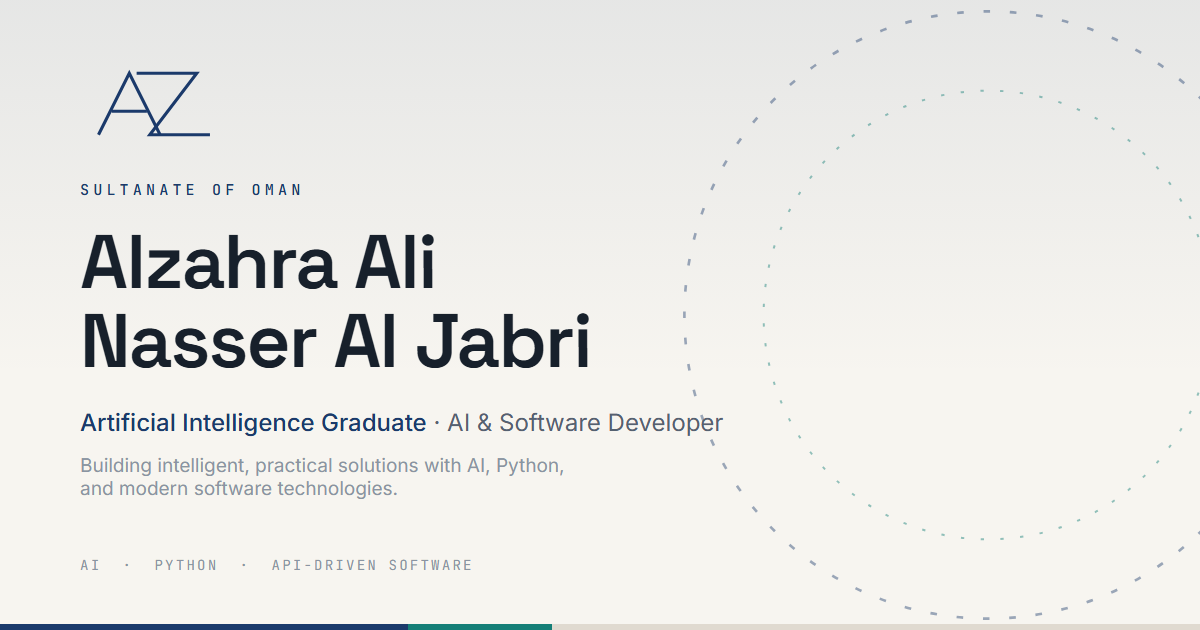
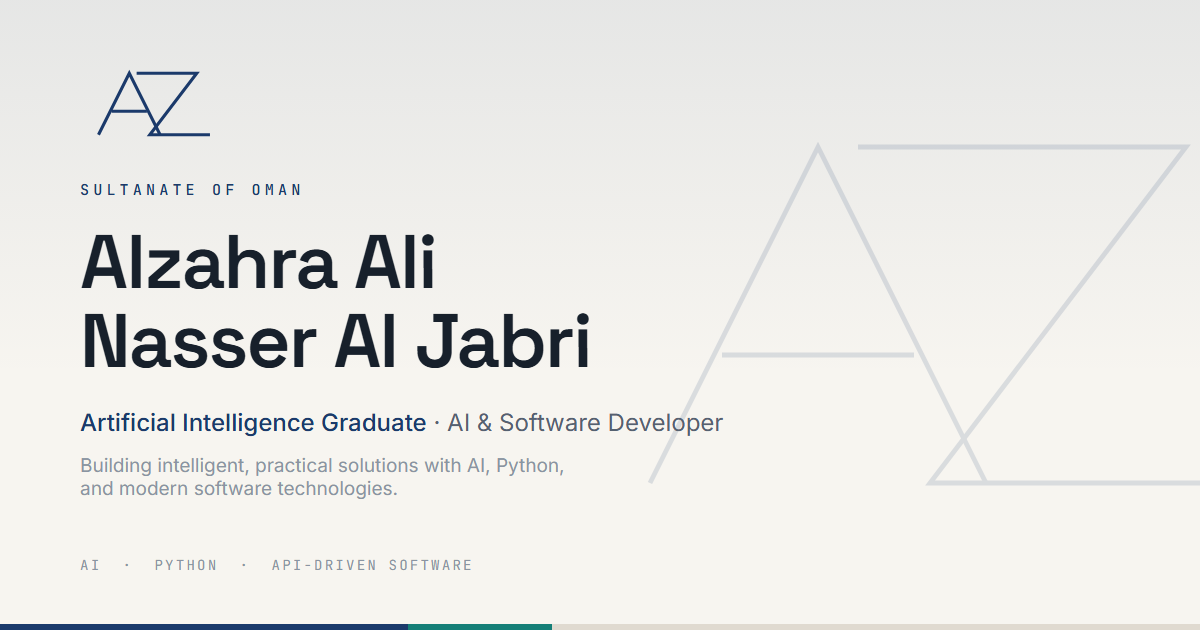
Swap the hero's dashed circles for an oversized ghost cipher
The two dotted rings are replaced by the AZ cipher blown up to ~980px at
11% opacity and cropped by the right edge, so the backdrop is the mark
itself rather than an unrelated shape. The OG card gets the same
treatment; og.png regenerated.

diff --git a/scripts/og-image.html b/scripts/og-image.html
@@ -7,9 +7,8 @@
   body{background:#F7F5F0;position:relative;font-family:Inter,system-ui}
   .fade{position:absolute;inset:0;background:linear-gradient(to bottom,rgba(27,58,107,.08),transparent 60%)}
   .lock{position:absolute;left:80px;top:60px;color:#1B3A6B}
-  .arcs{position:absolute;right:-118px;top:50%;transform:translateY(-50%);width:660px;height:660px}
-  .arcs svg{position:absolute;inset:0}
-  .mark{position:absolute;right:118px;top:50%;transform:translateY(-50%);color:#1B3A6B}
+  .ghost{position:absolute;right:-150px;top:50%;transform:translateY(-50%);width:800px}
+  .ghost svg{display:block;width:100%;height:auto}
   .copy{position:absolute;left:80px;top:54%;transform:translateY(-50%);max-width:706px}
   .eyebrow{font-family:'JetBrains Mono',monospace;font-size:15px;font-weight:500;
            letter-spacing:.28em;text-transform:uppercase;color:#1B3A6B;margin-bottom:22px}
@@ -32,12 +31,12 @@
   <path d="M77 18 H159 L95 102 H177"/>
 </svg>
 
-<div class="arcs">
-  <svg viewBox="0 0 100 100" style="opacity:.42">
-    <circle cx="50" cy="50" r="46" fill="none" stroke="#1B3A6B" stroke-width="0.4" stroke-dasharray="1 3"/>
-  </svg>
-  <svg viewBox="0 0 100 100" style="opacity:.45">
-    <circle cx="50" cy="50" r="34" fill="none" stroke="#157F77" stroke-width="0.3" stroke-dasharray="0.5 2.5"/>
+<div class="ghost">
+  <svg viewBox="0 0 200 120" fill="none" stroke="#1B3A6B" stroke-width="1.2"
+       stroke-linejoin="miter" stroke-miterlimit="8" style="opacity:.13">
+    <path d="M25 102 L67 18 L109 102"/>
+    <path d="M43 70 H91"/>
+    <path d="M77 18 H159 L95 102 H177"/>
   </svg>
 </div>
 

diff --git a/components/Hero.tsx b/components/Hero.tsx
@@ -4,23 +4,23 @@ export default function Hero() {
       id="top"
       className="relative flex min-h-screen items-center overflow-hidden pt-24"
     >
-      {/* ambient background: large slow-sweeping credibility arc */}
-      <div className="pointer-events-none absolute right-[-10%] top-1/2 hidden -translate-y-1/2 md:block lg:right-[2%]">
+      {/* ambient background: the AZ cipher blown up and cropped by the right edge */}
+      <div
+        aria-hidden="true"
+        className="pointer-events-none absolute right-[-22%] top-1/2 hidden -translate-y-1/2 md:block lg:right-[-16%]"
+      >
         <svg
-          width="620"
-          height="620"
-          viewBox="0 0 100 100"
-          className="animate-sweep opacity-[0.55]"
+          viewBox="0 0 200 120"
+          className="w-[760px] opacity-[0.11] lg:w-[980px]"
+          fill="none"
+          stroke="#1B3A6B"
+          strokeWidth="1.2"
+          strokeLinejoin="miter"
+          strokeMiterlimit={8}
         >
-          <circle cx="50" cy="50" r="46" fill="none" stroke="#1B3A6B" strokeWidth="0.4" strokeDasharray="1 3" />
-        </svg>
-        <svg
-          width="620"
-          height="620"
-          viewBox="0 0 100 100"
-          className="absolute inset-0 opacity-[0.50]"
-        >
-          <circle cx="50" cy="50" r="34" fill="none" stroke="#157F77" strokeWidth="0.3" strokeDasharray="0.5 2.5" />
+          <path d="M25 102 L67 18 L109 102" />
+          <path d="M43 70 H91" />
+          <path d="M77 18 H159 L95 102 H177" />
         </svg>
       </div>
 
